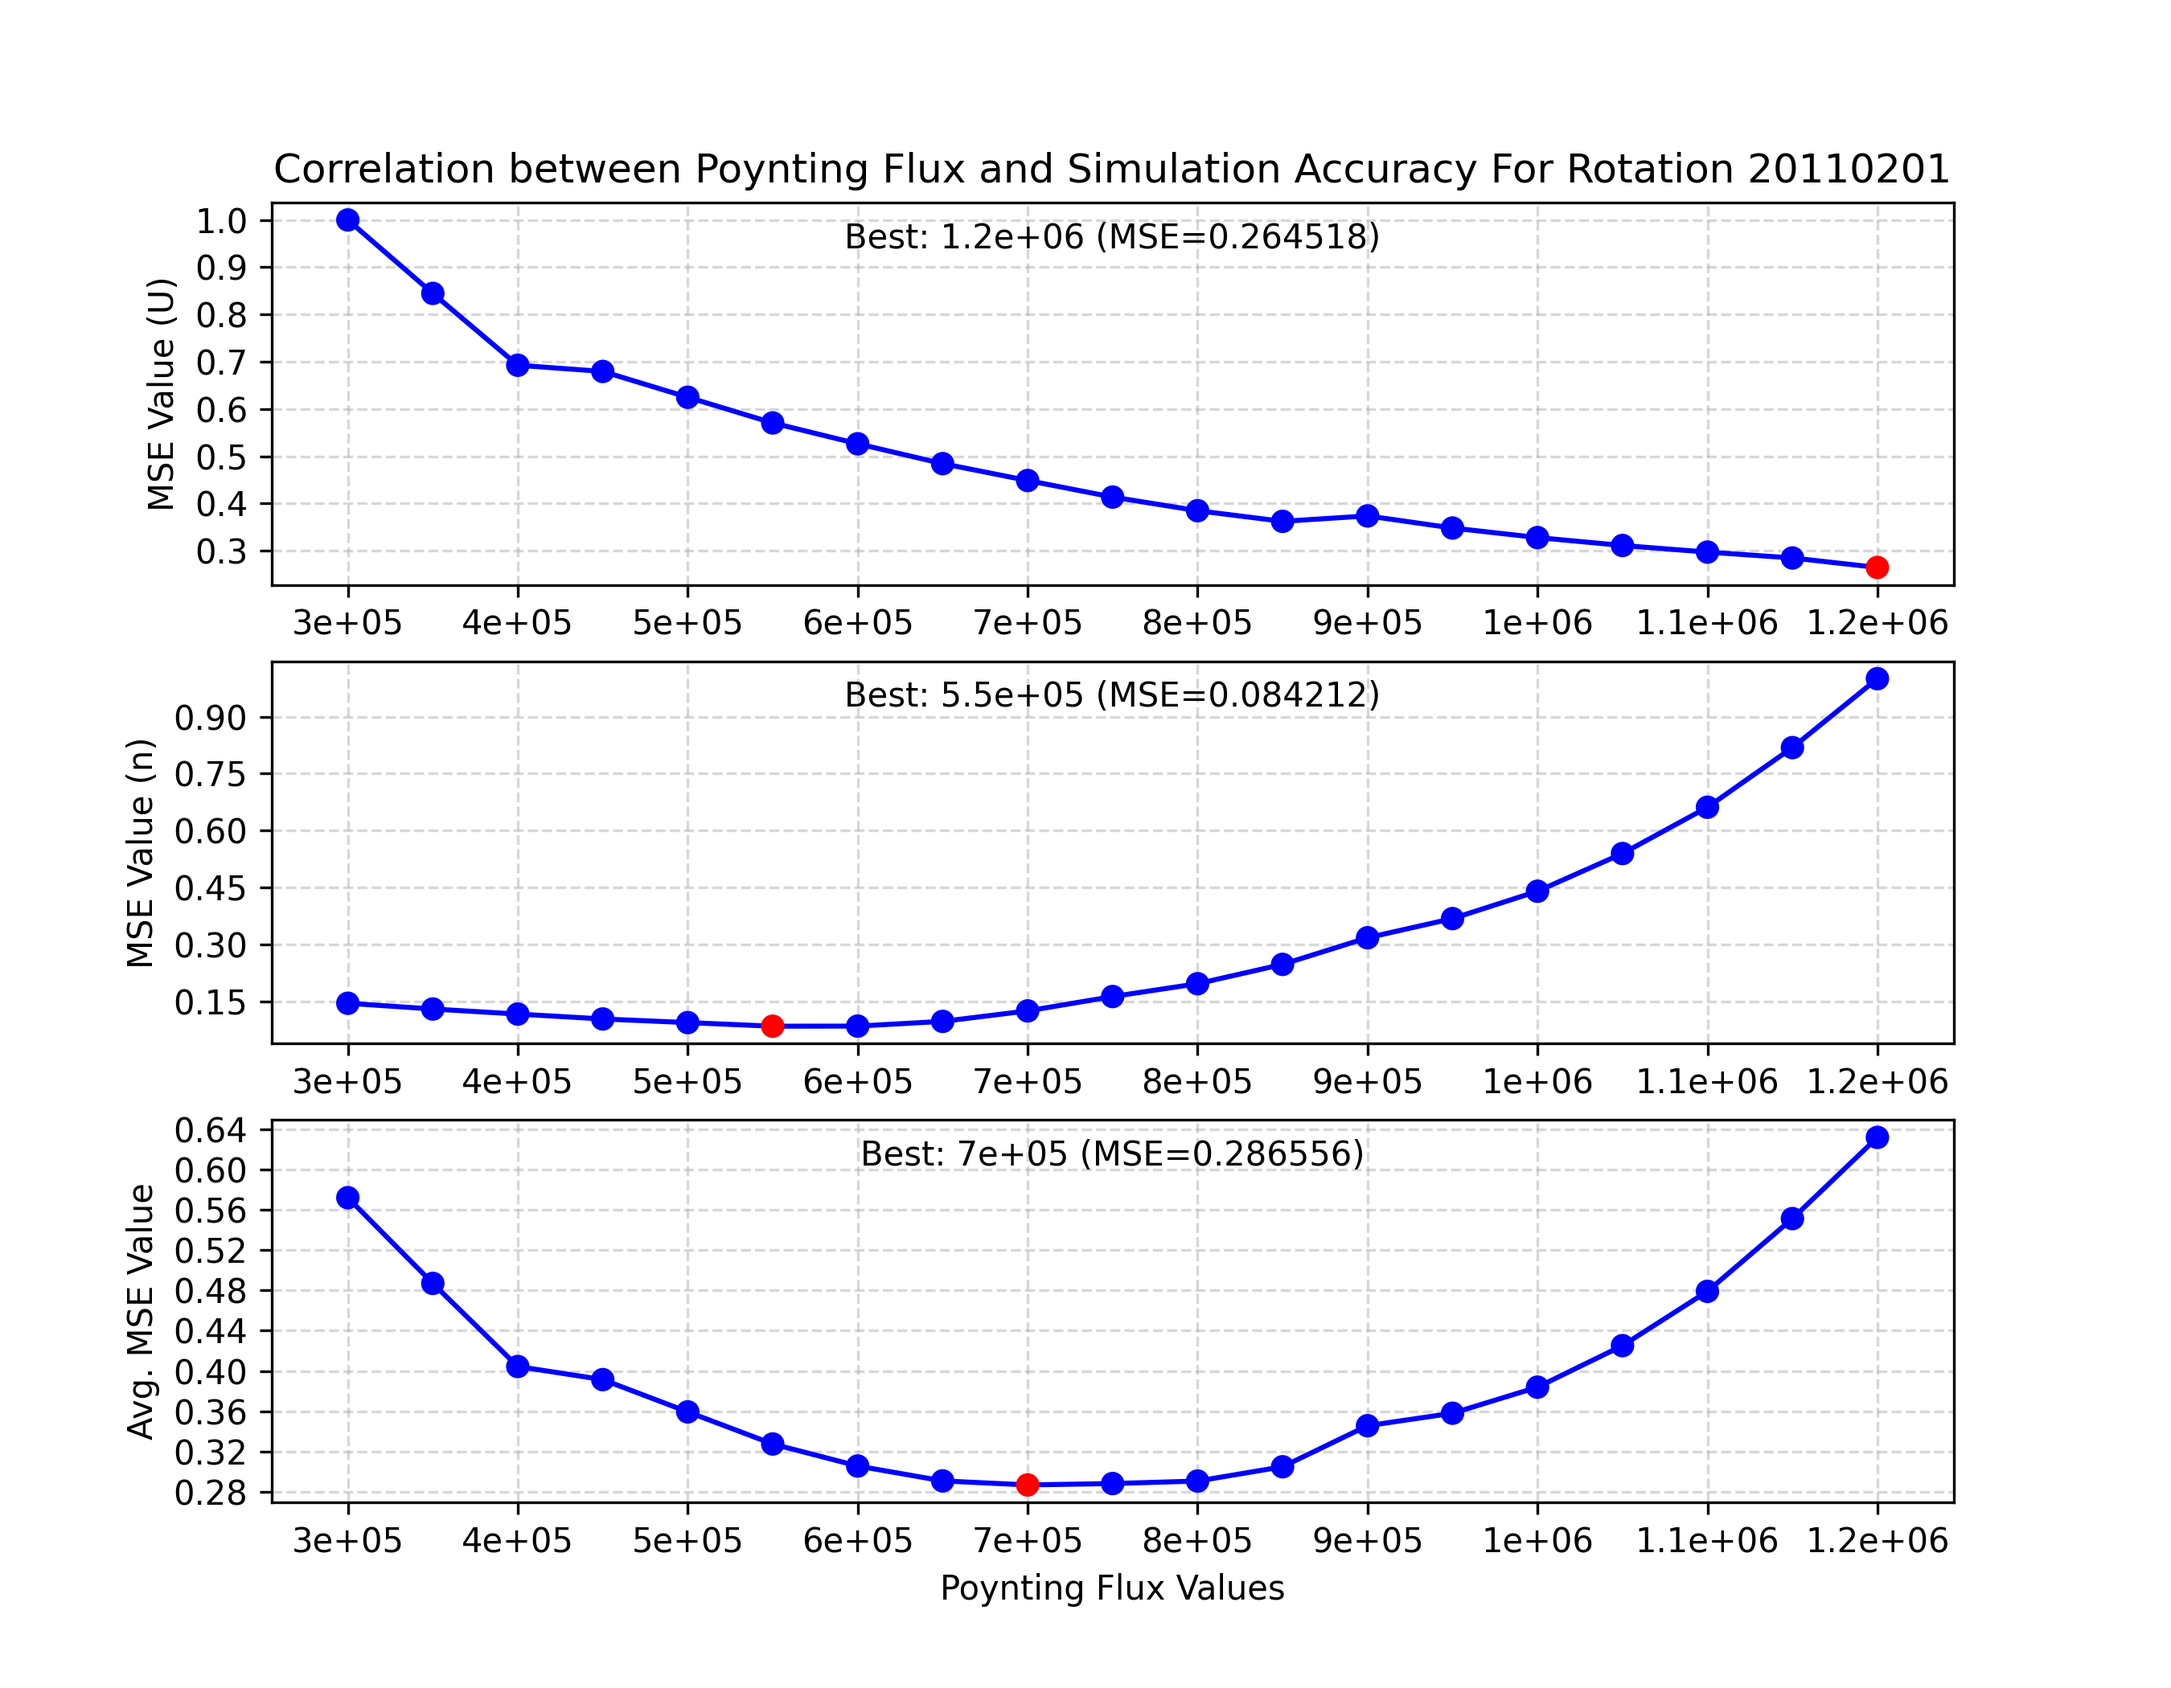
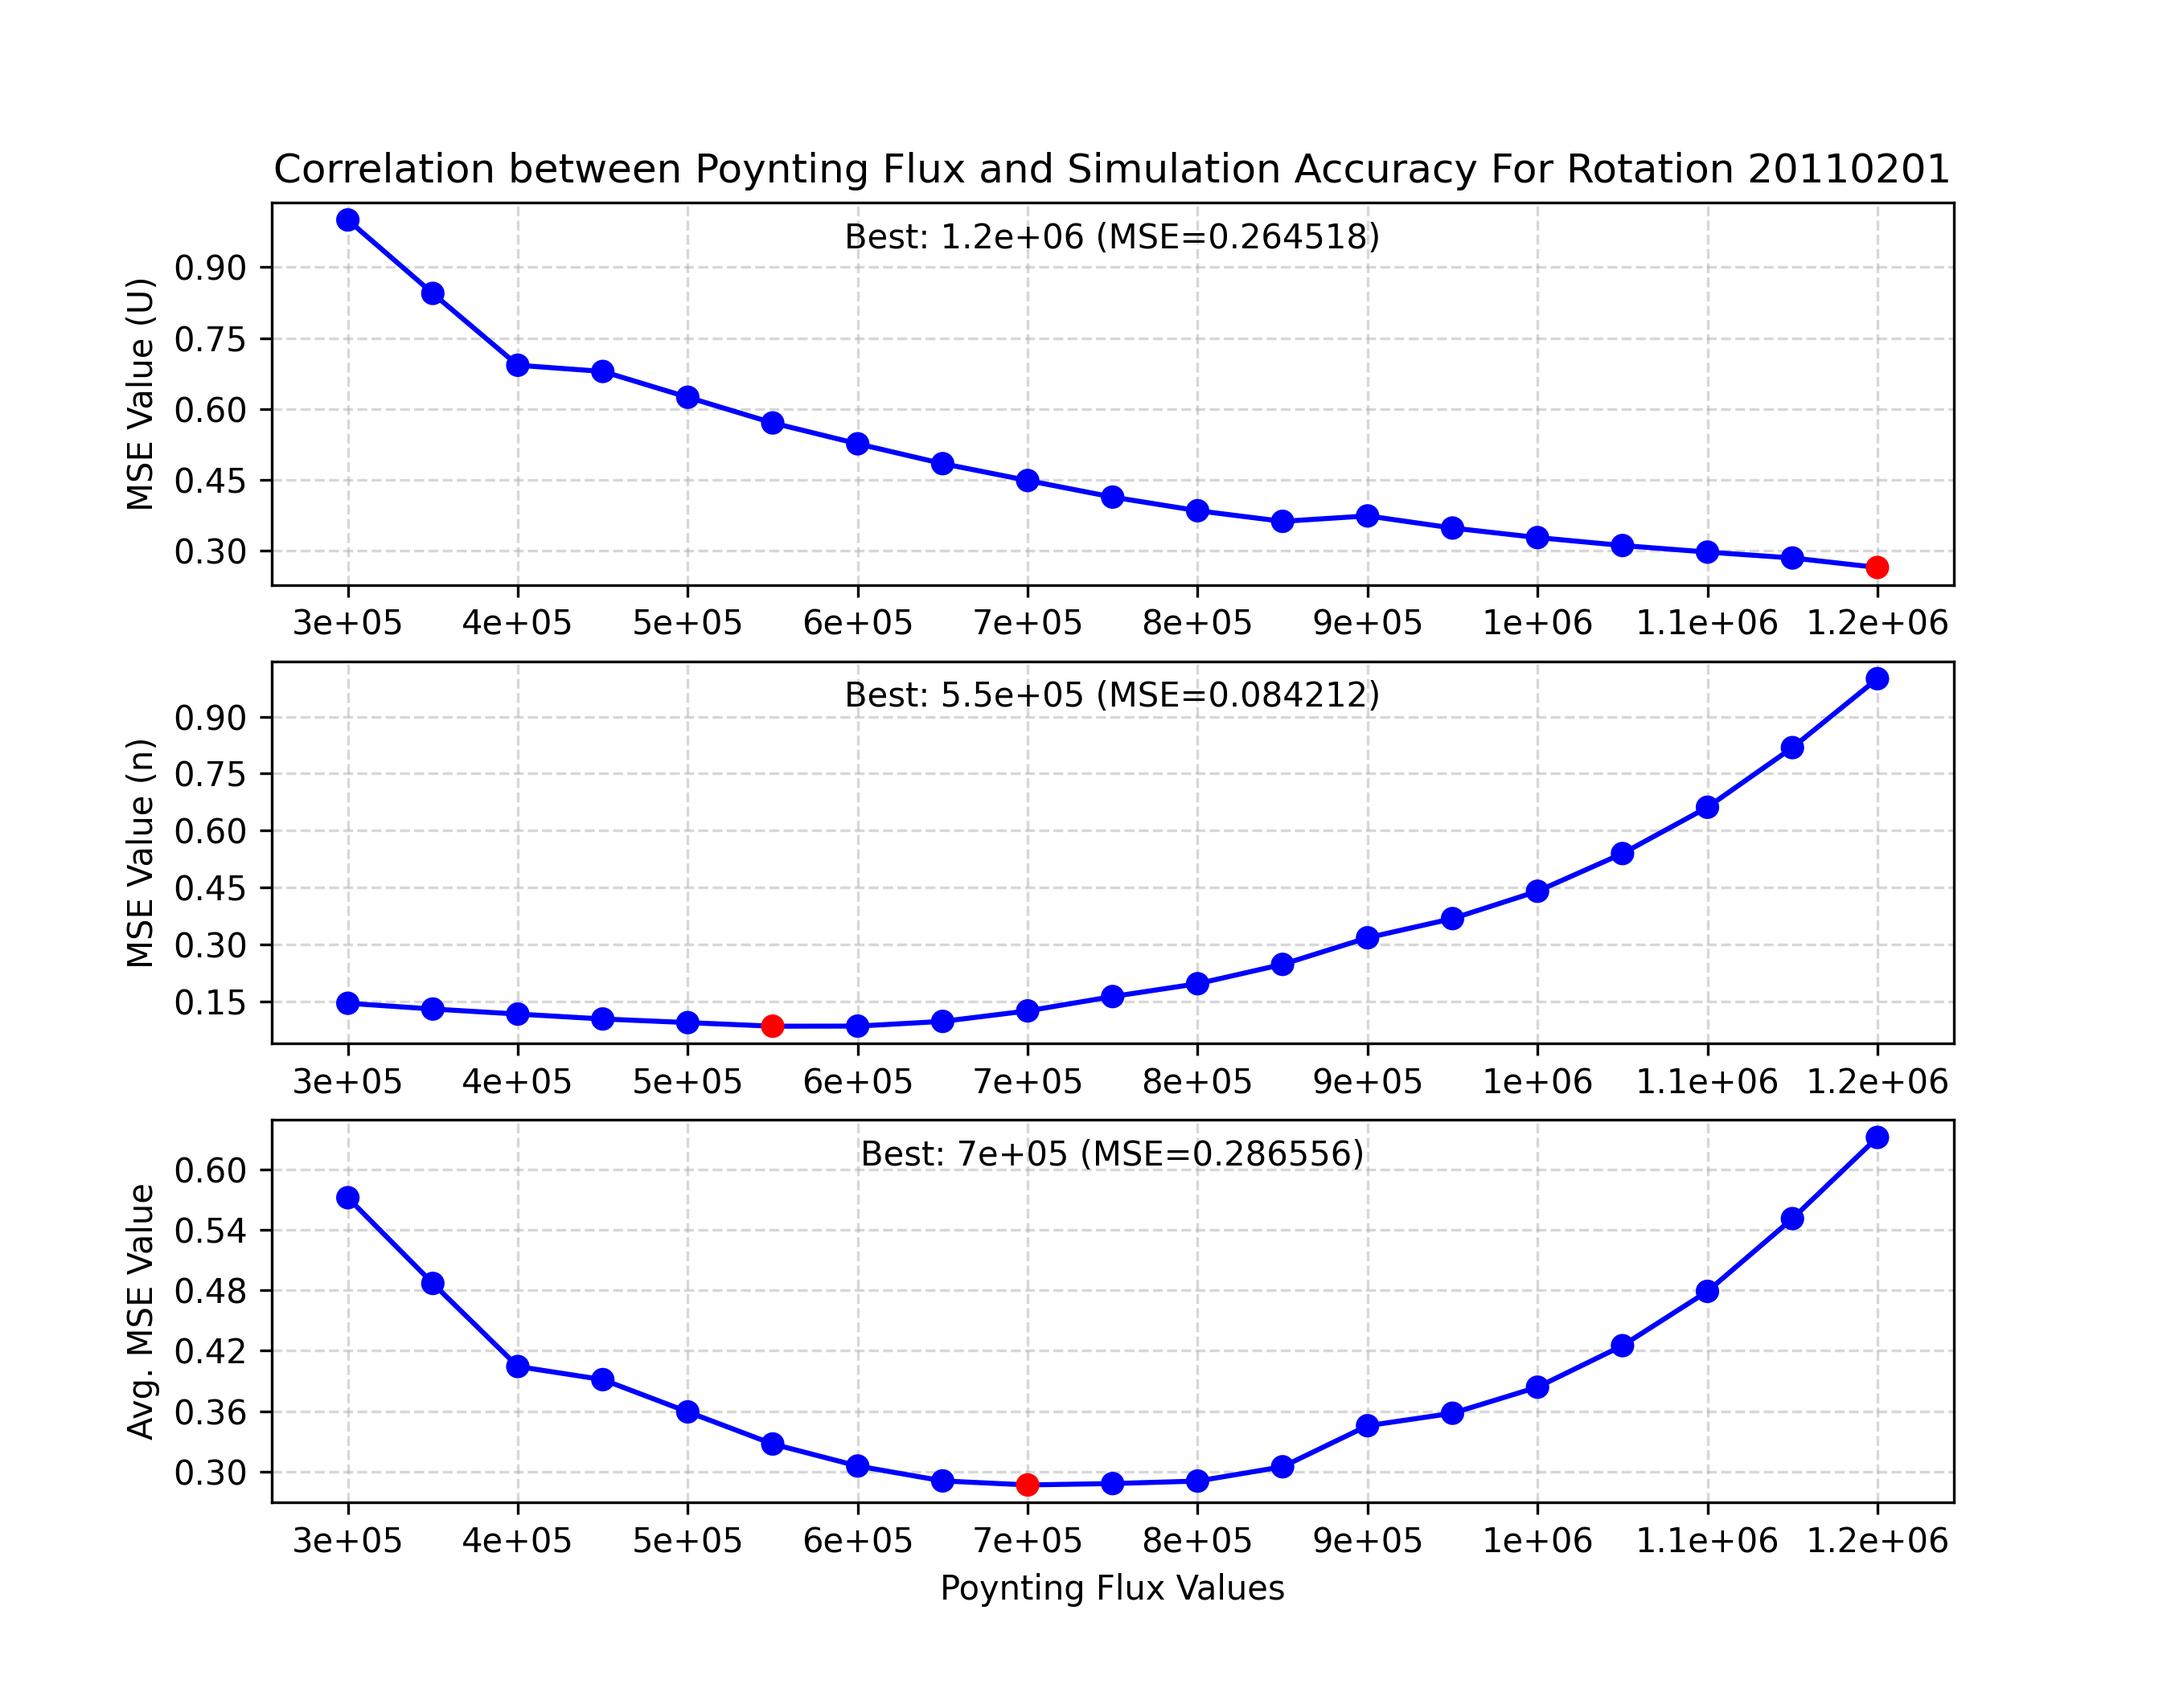
fix pf plotting bins

diff --git a/plot_gen_poyntingflux.py b/plot_gen_poyntingflux.py
@@ -47,7 +47,7 @@ def plotPoyntingFluxGraph(avgMseValues, allMseData, poyntingFluxValues, rotation
         ax.set_ylabel(f"MSE Value ({configs['importantParams'][i]})")
 
         plt.gca().xaxis.set_major_locator(MaxNLocator(integer=True))
-        plt.gca().yaxis.set_major_locator(MaxNLocator(integer=True))
+        plt.gca().yaxis.set_major_locator(MaxNLocator(nbins=configs["mseValueBins"]))
     
     #plots overall average MSE values in last subplot
     plt.subplot(len(allMseData) + 1, 1, len(allMseData) + 1)
@@ -68,7 +68,7 @@ def plotPoyntingFluxGraph(avgMseValues, allMseData, poyntingFluxValues, rotation
     plt.grid(True, linestyle = "--", alpha = 0.5)
 
     plt.gca().xaxis.set_major_locator(MaxNLocator(integer=True))
-    plt.gca().yaxis.set_major_locator(MaxNLocator(integer=True))
+    plt.gca().yaxis.set_major_locator(MaxNLocator(nbins=configs["mseValueBins"]))
     
     if showPlots:
         plt.show()

diff --git a/plot_simulation.py b/plot_simulation.py
@@ -11,6 +11,8 @@ simDirectory = configs["simDirectory"]
 #NOTE: configs["plotSaveFolder"] must be accessed directly in this file so it can be overriden by cmd arguments
 #This value is then used in different modules
 
+print(f"Indexing data from {simDirectory} ...")
+
 #parses user command line input with flags
 plotRotation = ""
 if __name__ == "__main__":

diff --git a/config_local.py b/config_local.py
@@ -32,7 +32,8 @@ configs = {
     
     #poynting flux vs mse plot properties
     "msePlotColor": "blue",
-    "mseBestPointColor": "red"
+    "mseBestPointColor": "red",
+    "mseValueBins": 7 # number of tick marks on y axis of poynting flux plot
 }
 
 #constants
